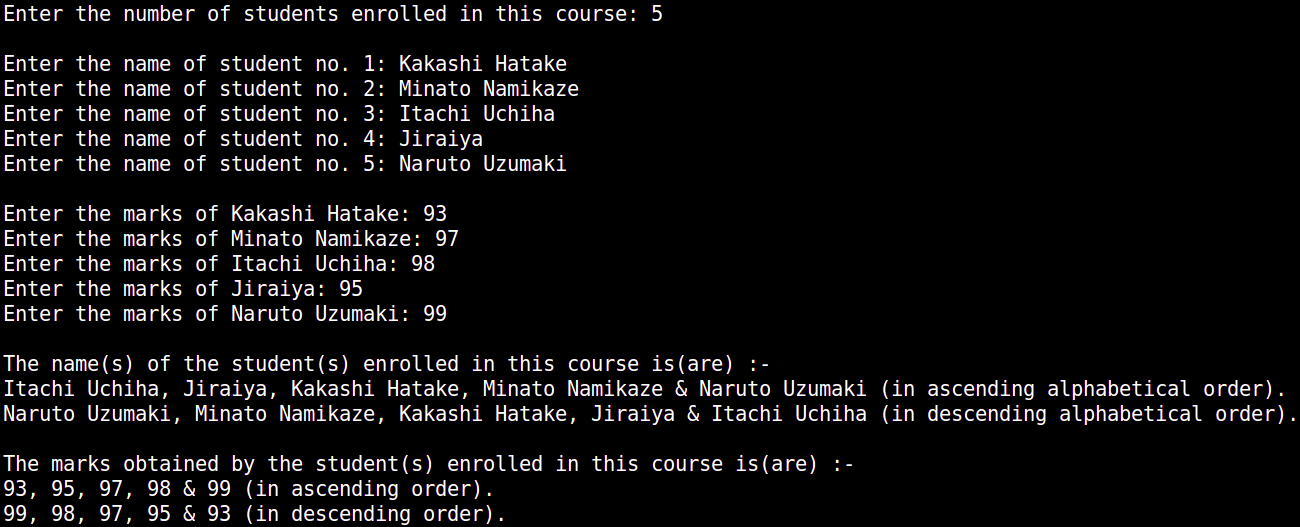
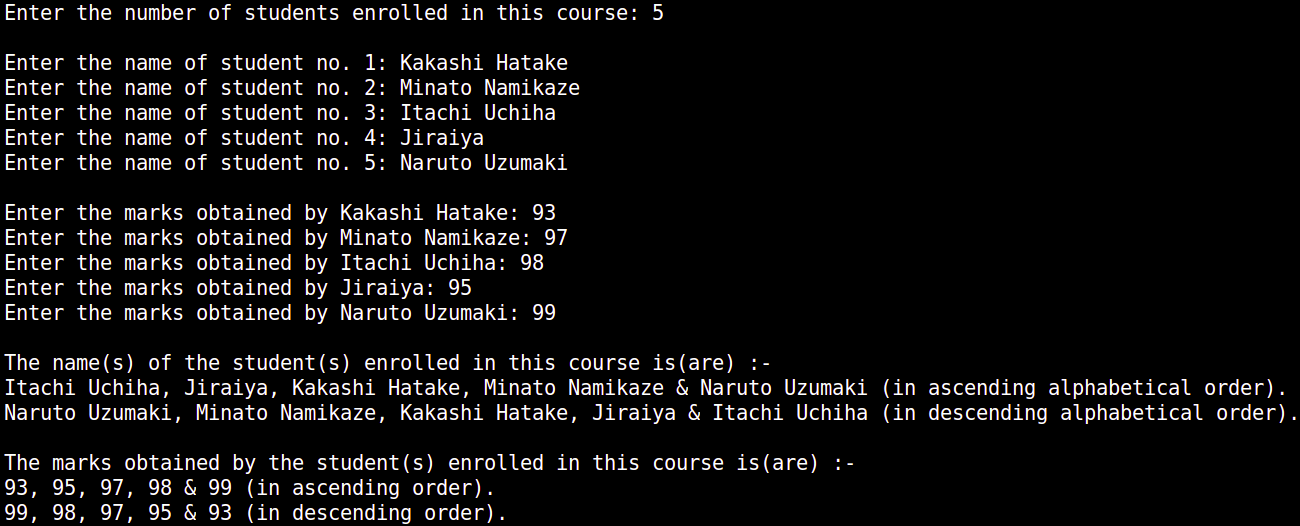
Update PY-00

diff --git a/15/15.py b/15/15.py
@@ -7,6 +7,7 @@ print("\n", sep = "", end = "")
 
 
 
+
 if (numberOfStudents > 0):
 
 
@@ -21,8 +22,9 @@ if (numberOfStudents > 0):
 
     print("\n", sep = "", end = "")
 
-    for y in range(numberOfStudents):
-        print("Enter the marks of ", listOfNames[y], ": ", sep = "", end = "")
+    for y in listOfNames:
+        print("Enter the marks obtained by ", y, ": ",
+              sep = "", end = "")
         dummyVariable2 = int(input())
         marksObtained.append(dummyVariable2)
 
@@ -92,9 +94,12 @@ if (numberOfStudents > 0):
 
 
 
+
 else:
     print("The number of students should be greater than 0!\n",
           sep = "", end = "")
+
+
 
 
 

diff --git a/01/01.py b/01/01.py
@@ -10,6 +10,8 @@ print("The sum of ", a, " and ", b, " is ", c, "\n", sep = "", end = "")
 
 
 
+
+
 # /* Trivia
 #
 #  * a = a+22 will add 22 to the current value of a and assign the sum to a. So, print(a) will now print 32, instead of

diff --git a/12 (#)/12.py b/12 (#)/12.py
@@ -16,6 +16,8 @@ print("That's it for the day!\n", sep = "", end = "")
 
 
 
+
+
 # /* Trivia
 #
 #  * The for loop assigns a new value to x every time, but nothing of this sort happens in the while loop.

diff --git a/04/04.py b/04/04.py
@@ -13,6 +13,8 @@ print("The cost of the product after applying a 10", percentSign, " discount ",
 
 
 
+
+
 # /* Trivia
 #
 #  * cost = float(input("Enter the cost of the product: ")) is the same as

diff --git a/10/10.py b/10/10.py
@@ -12,6 +12,8 @@ print(e, "\n", sep = "", end = "")
 
 
 
+
+
 # /* Trivia
 #
 #  * input().split("separator", unsignedInt) takes multiple inputs. The default separator is any whitespace. The number

diff --git a/07 (#)/07.py b/07 (#)/07.py
@@ -10,6 +10,8 @@ for x in range(2, 10):
 
 
 
+
+
 # /* Trivia
 #
 #  * for x in range(unsignedInt1, unsignedInt2, positiveInt) assigns a new value to x every time, beginning with

diff --git a/14/14.py b/14/14.py
@@ -24,6 +24,8 @@ print("Out of the ", numberOfStudents, " students, ",
 
 
 
+
+
 # /* Trivia
 #
 #  * len(listName) returns the number of items in a list.

diff --git a/03/03.py b/03/03.py
@@ -7,6 +7,8 @@ print(a, " is a very good choice\n", sep = "", end = "")
 
 
 
+
+
 # /* Trivia
 #
 #  * Here, the input function assigns a string to a.

diff --git a/00/00.py b/00/00.py
@@ -5,6 +5,8 @@ print("Hello, World!\n", sep = "", end = "")
 
 
 
+
+
 # /* Trivia
 #
 #  * \n represents the newline character.

diff --git a/13/13.py b/13/13.py
@@ -26,6 +26,8 @@ for x in shoppingList:
 
 
 
+
+
 # /* Trivia
 #
 #  * variableName = [] declares a data structure called list.

diff --git a/06/06.py b/06/06.py
@@ -22,6 +22,8 @@ else:
 
 
 
+
+
 # /* Trivia
 #
 #  * elif stands for else if.
